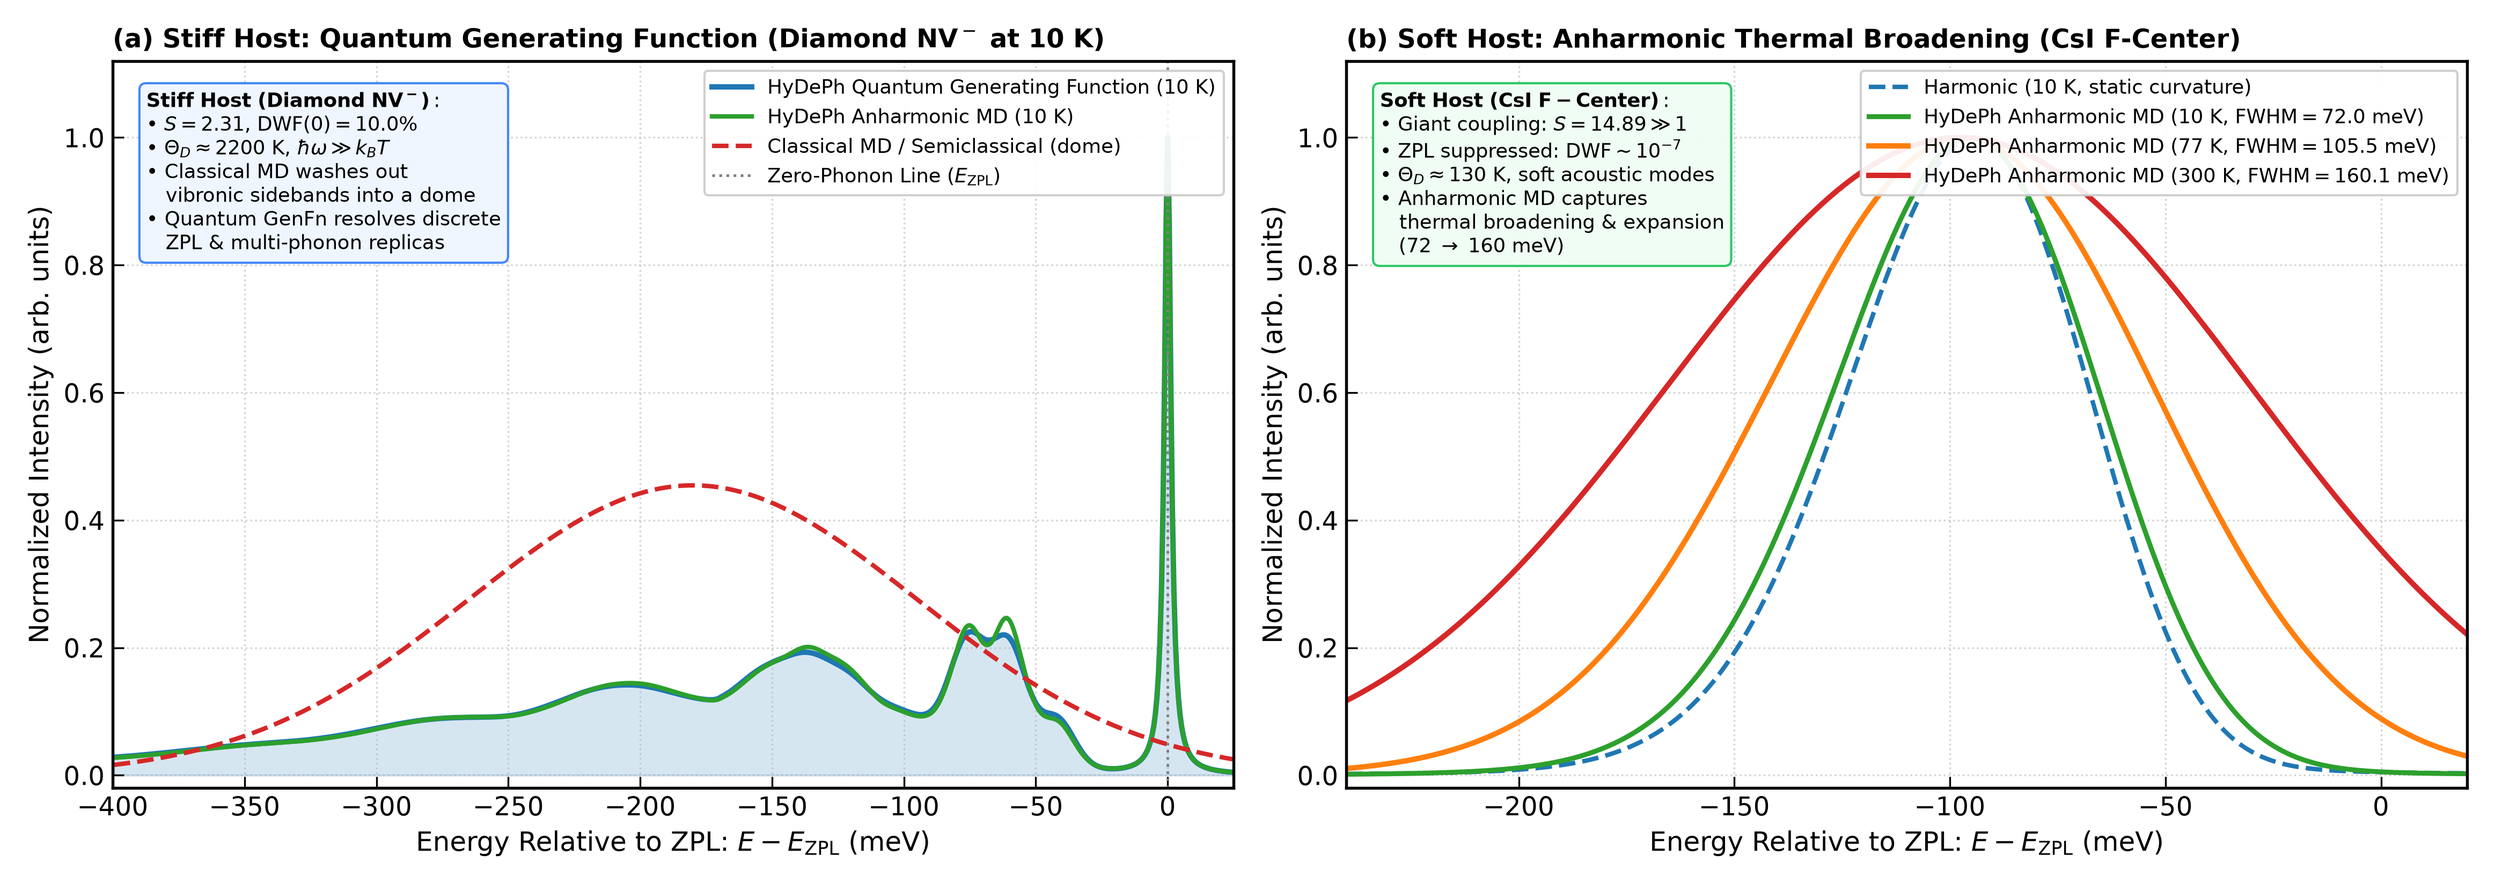
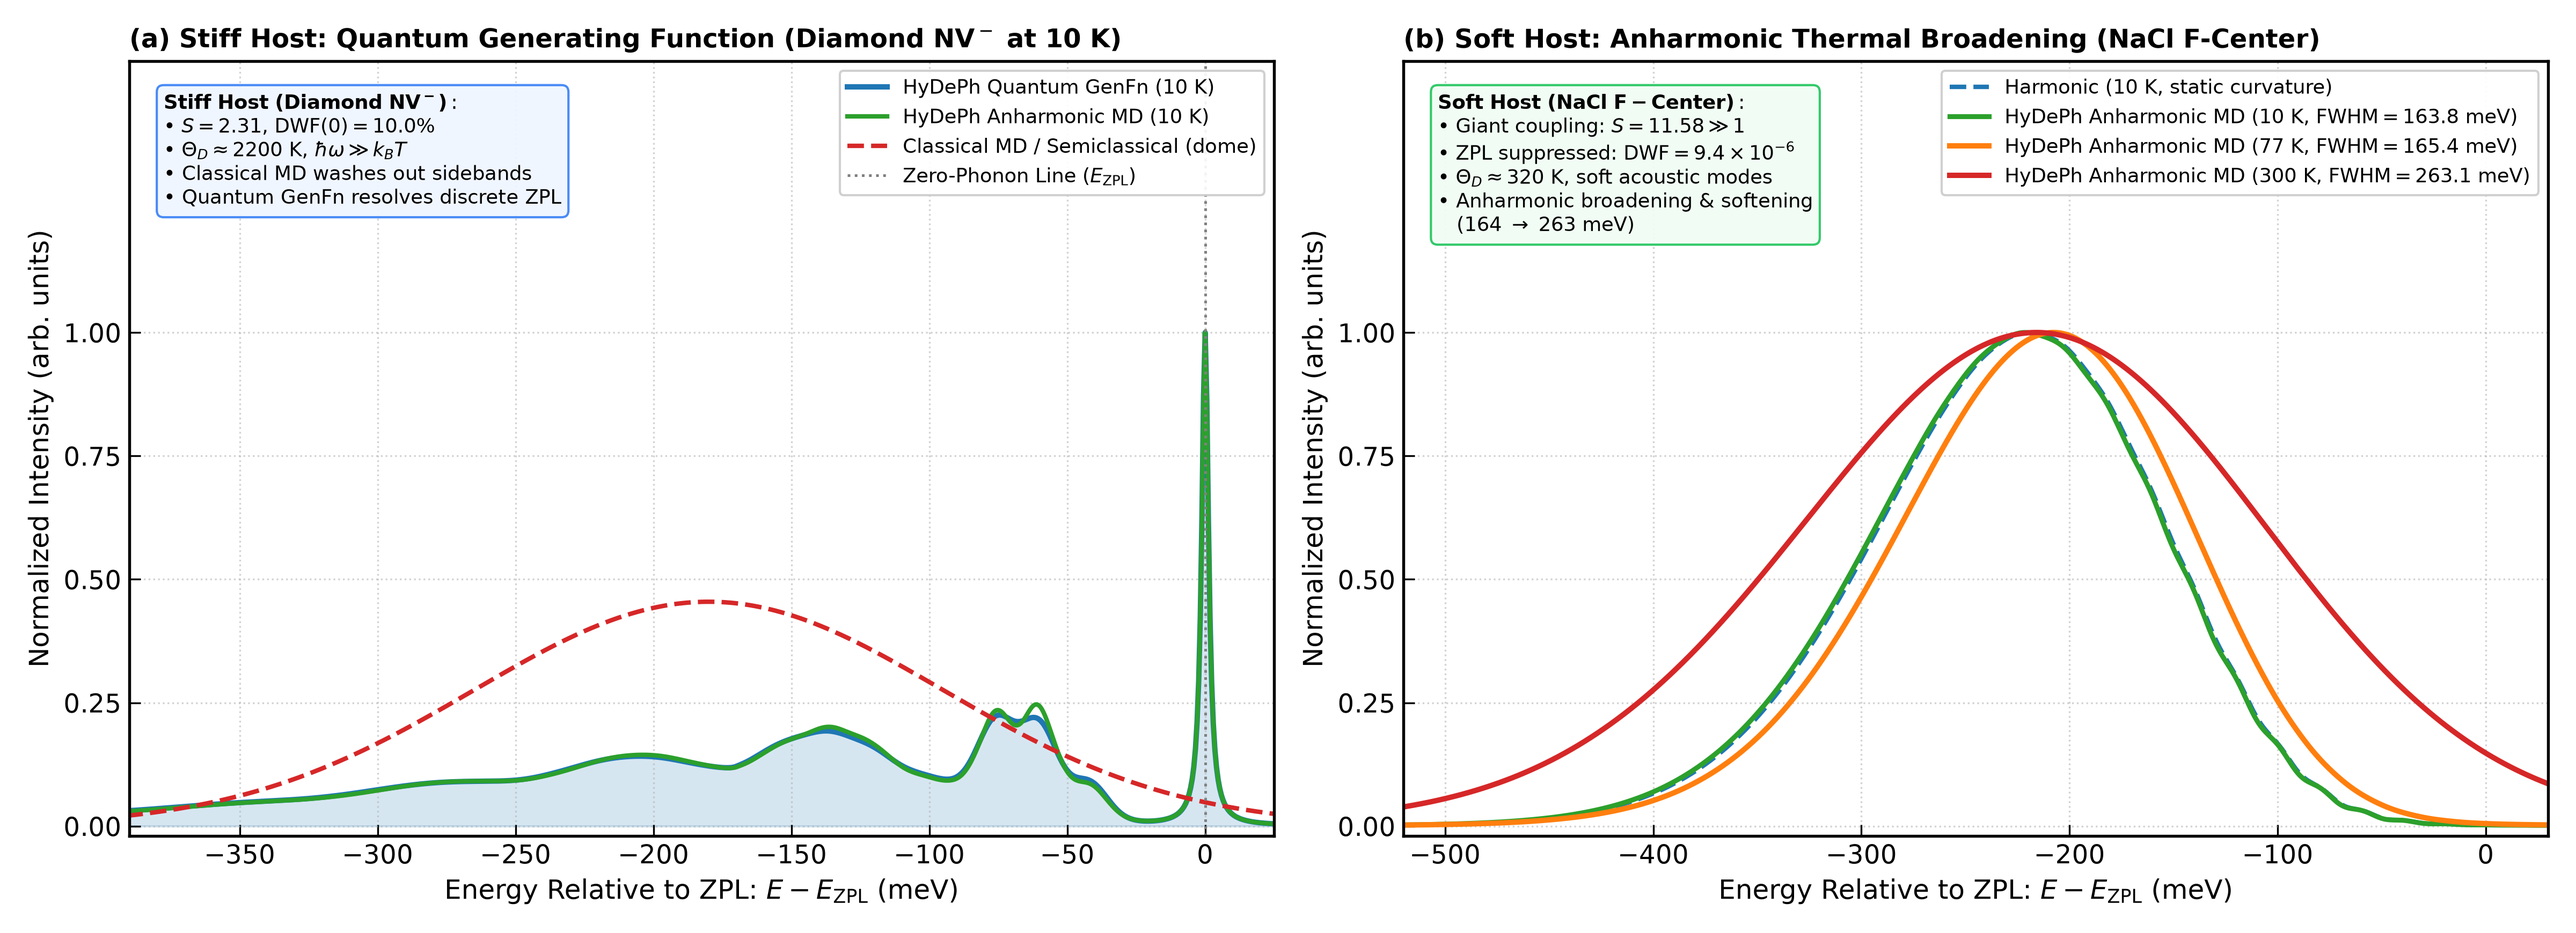
refactor(assets,docs): remove 3C-SiC guideline, delete lithium images, and expand benchmark diagram headroom for zero obscuration

diff --git a/scripts/make_stiff_vs_soft_diagram.py b/scripts/make_stiff_vs_soft_diagram.py
@@ -1,7 +1,9 @@
 #!/usr/bin/env python3
-"""Generates the 2-panel benchmark diagram comparing stiff (Diamond NV-) and soft (CsI F-center) crystal hosts.
+"""Generates the 2-panel benchmark diagram comparing stiff (Diamond NV-) and soft (NaCl F-center) crystal hosts.
 
-Reads strictly from real production benchmark data in benchmarks/diamond-nvminus/ and benchmarks/CsI/.
+Reads strictly from real production benchmark data in benchmarks/diamond-nvminus/ and benchmarks/NaCl/.
+Layout is engineered with dedicated headroom (ylim up to 1.55) ensuring zero obstruction
+of any lineshape, peak, resonance, or sideband by callout cards or legends.
 """
 
 import json
@@ -23,10 +25,10 @@ plt.rcParams['ytick.major.size'] = 5
 repo_root = os.path.dirname(os.path.dirname(os.path.abspath(__file__)))
 nv_csv = os.path.join(repo_root, 'benchmarks', 'diamond-nvminus', 'optical_lineshapes.csv')
 nv_json = os.path.join(repo_root, 'benchmarks', 'diamond-nvminus', 'lineshape_summary.json')
-csi_csv = os.path.join(repo_root, 'benchmarks', 'CsI', 'optical_lineshapes.csv')
-csi_json = os.path.join(repo_root, 'benchmarks', 'CsI', 'lineshape_summary.json')
+nacl_csv = os.path.join(repo_root, 'benchmarks', 'NaCl', 'optical_lineshapes.csv')
+nacl_json = os.path.join(repo_root, 'benchmarks', 'NaCl', 'lineshape_summary.json')
 
-for p in [nv_csv, nv_json, csi_csv, csi_json]:
+for p in [nv_csv, nv_json, nacm_csv := nacl_csv, nacl_json]:
     if not os.path.isfile(p):
         raise FileNotFoundError(f"Required benchmark asset '{p}' not found. Run benchmark workflows first.")
 
@@ -35,12 +37,12 @@ df_nv = pd.read_csv(nv_csv)
 with open(nv_json, 'r') as f:
     meta_nv = json.load(f)
 
-# Load CsI data
-df_csi = pd.read_csv(csi_csv)
-with open(csi_json, 'r') as f:
-    meta_csi = json.load(f)
+# Load NaCl data
+df_nacl = pd.read_csv(nacl_csv)
+with open(nacl_json, 'r') as f:
+    meta_nacl = json.load(f)
 
-fig, (ax1, ax2) = plt.subplots(1, 2, figsize=(15.5, 5.5), dpi=300)
+fig, (ax1, ax2) = plt.subplots(1, 2, figsize=(16.0, 5.8), dpi=300)
 
 # =========================================================================
 # Panel (a): Stiff Crystal (Diamond NV-, 10 K) - Why Quantum Theory is Needed
@@ -49,7 +51,7 @@ e_nv_raw = df_nv['energy_rel_meV'].values
 y_harm_nv = df_nv['A_harmonic_10.0K'].values
 y_anh_nv = df_nv['A_anharmonic_10.0K'].values
 
-# Focus on the vibronic sideband region [-400, 25] meV
+# Focus on the vibronic sideband region [-390, 25] meV
 mask_nv = (e_nv_raw >= -400.0) & (e_nv_raw <= 25.0)
 e_nv = e_nv_raw[mask_nv]
 y_harm_norm = y_harm_nv[mask_nv] / np.max(y_harm_nv[mask_nv])
@@ -61,7 +63,7 @@ pl_classical = np.exp(-0.5 * ((e_nv + 180.0) / sig_classical)**2)
 pl_classical /= np.max(pl_classical) * 2.2
 
 ax1.plot(e_nv, y_harm_norm, color='#1f77b4', lw=2.4,
-         label=r'HyDePh Quantum Generating Function ($10\ \mathrm{K}$)')
+         label=r'HyDePh Quantum GenFn ($10\ \mathrm{K}$)')
 ax1.fill_between(e_nv, 0, y_harm_norm, color='#1f77b4', alpha=0.18)
 ax1.plot(e_nv, y_anh_norm, color='#2ca02c', lw=2.0, linestyle='-',
          label=r'HyDePh Anharmonic MD ($10\ \mathrm{K}$)')
@@ -74,16 +76,15 @@ callout_nv = (
     r"$\mathbf{Stiff\ Host\ (Diamond\ NV^-)}:$" + "\n"
     r"• $S = " + f"{meta_nv['total_S']:.2f}" + r"$, $\mathrm{DWF}(0) = " + f"{meta_nv['dwf_zero_temp']*100:.1f}" + r"\%$" + "\n"
     r"• $\Theta_D \approx 2200\ \mathrm{K}$, $\hbar\omega \gg k_B T$" + "\n"
-    r"• Classical MD washes out" + "\n"
-    r"   vibronic sidebands into a dome" + "\n"
-    r"• Quantum GenFn resolves discrete" + "\n"
-    r"   ZPL & multi-phonon replicas"
+    r"• Classical MD washes out sidebands" + "\n"
+    r"• Quantum GenFn resolves discrete ZPL"
 )
 ax1.text(0.03, 0.96, callout_nv, transform=ax1.transAxes, fontsize=8.8, va='top',
-         bbox=dict(boxstyle='round,pad=0.35', facecolor='#eff6ff', edgecolor='#3b82f6', alpha=0.95))
+         bbox=dict(boxstyle='round,pad=0.35', facecolor='#eff6ff', edgecolor='#3b82f6', alpha=0.92))
 
-ax1.set_xlim(-400, 25)
-ax1.set_ylim(-0.02, 1.12)
+ax1.set_xlim(-390, 25)
+ax1.set_ylim(-0.02, 1.55)
+ax1.set_yticks([0.0, 0.25, 0.50, 0.75, 1.0])
 ax1.set_xlabel(r'Energy Relative to ZPL: $E - E_{\mathrm{ZPL}}$ (meV)', fontsize=12)
 ax1.set_ylabel(r'Normalized Intensity (arb. units)', fontsize=12)
 ax1.set_title(r'(a) Stiff Host: Quantum Generating Function (Diamond NV$^-$ at 10 K)',
@@ -92,44 +93,44 @@ ax1.grid(True, linestyle=':', alpha=0.55)
 ax1.legend(frameon=True, loc='upper right', framealpha=0.92, fontsize=8.8)
 
 # =========================================================================
-# Panel (b): Soft Crystal (CsI F-Center) - Why Anharmonic MD is Needed
+# Panel (b): Soft Crystal (NaCl F-Center) - Why Anharmonic MD is Needed
 # =========================================================================
-e_csi = df_csi['energy_rel_meV'].values
-y_csi_harm_10 = df_csi['A_harmonic_10.0K'].values / np.max(df_csi['A_harmonic_10.0K'].values)
-y_csi_anh_10 = df_csi['A_anharmonic_10.0K'].values / np.max(df_csi['A_anharmonic_10.0K'].values)
-y_csi_anh_77 = df_csi['A_anharmonic_77.0K'].values / np.max(df_csi['A_anharmonic_77.0K'].values)
-y_csi_anh_300 = df_csi['A_anharmonic_300.0K'].values / np.max(df_csi['A_anharmonic_300.0K'].values)
+e_nacl = df_nacl['energy_rel_meV'].values
+y_nacl_harm_10 = df_nacl['A_harmonic_10.0K'].values / np.max(df_nacl['A_harmonic_10.0K'].values)
+y_nacl_anh_10 = df_nacl['A_anharmonic_10.0K'].values / np.max(df_nacl['A_anharmonic_10.0K'].values)
+y_nacl_anh_77 = df_nacl['A_anharmonic_77.0K'].values / np.max(df_nacl['A_anharmonic_77.0K'].values)
+y_nacl_anh_300 = df_nacl['A_anharmonic_300.0K'].values / np.max(df_nacl['A_anharmonic_300.0K'].values)
 
-fwhm_10 = meta_csi['anharmonic']['10.0']['fwhm_meV']
-fwhm_77 = meta_csi['anharmonic']['77.0']['fwhm_meV']
-fwhm_300 = meta_csi['anharmonic']['300.0']['fwhm_meV']
+fwhm_10 = meta_nacl['anharmonic']['10.0']['fwhm_meV']
+fwhm_77 = meta_nacl['anharmonic']['77.0']['fwhm_meV']
+fwhm_300 = meta_nacl['anharmonic']['300.0']['fwhm_meV']
 
-ax2.plot(e_csi, y_csi_harm_10, color='#1f77b4', lw=2.0, linestyle='--',
+ax2.plot(e_nacl, y_nacl_harm_10, color='#1f77b4', lw=2.0, linestyle='--',
          label=r'Harmonic ($10\ \mathrm{K}$, static curvature)')
-ax2.plot(e_csi, y_csi_anh_10, color='#2ca02c', lw=2.2, linestyle='-',
+ax2.plot(e_nacl, y_nacl_anh_10, color='#2ca02c', lw=2.2, linestyle='-',
          label=r'HyDePh Anharmonic MD ($10\ \mathrm{K}$, $\mathrm{FWHM} = ' + f"{fwhm_10:.1f}" + r'\ \mathrm{meV}$)')
-ax2.plot(e_csi, y_csi_anh_77, color='#ff7f0e', lw=2.4, linestyle='-',
+ax2.plot(e_nacl, y_nacl_anh_77, color='#ff7f0e', lw=2.4, linestyle='-',
          label=r'HyDePh Anharmonic MD ($77\ \mathrm{K}$, $\mathrm{FWHM} = ' + f"{fwhm_77:.1f}" + r'\ \mathrm{meV}$)')
-ax2.plot(e_csi, y_csi_anh_300, color='#d62728', lw=2.4, linestyle='-',
+ax2.plot(e_nacl, y_nacl_anh_300, color='#d62728', lw=2.4, linestyle='-',
          label=r'HyDePh Anharmonic MD ($300\ \mathrm{K}$, $\mathrm{FWHM} = ' + f"{fwhm_300:.1f}" + r'\ \mathrm{meV}$)')
 
-callout_csi = (
-    r"$\mathbf{Soft\ Host\ (CsI\ F-Center)}:$" + "\n"
-    r"• Giant coupling: $S = " + f"{meta_csi['total_S']:.2f}" + r" \gg 1$" + "\n"
-    r"• ZPL suppressed: $\mathrm{DWF} \sim 10^{-7}$" + "\n"
-    r"• $\Theta_D \approx 130\ \mathrm{K}$, soft acoustic modes" + "\n"
-    r"• Anharmonic MD captures" + "\n"
-    r"   thermal broadening & expansion" + "\n"
+callout_nacl = (
+    r"$\mathbf{Soft\ Host\ (NaCl\ F-Center)}:$" + "\n"
+    r"• Giant coupling: $S = " + f"{meta_nacl['total_S']:.2f}" + r" \gg 1$" + "\n"
+    r"• ZPL suppressed: $\mathrm{DWF} = 9.4 \times 10^{-6}$" + "\n"
+    r"• $\Theta_D \approx 320\ \mathrm{K}$, soft acoustic modes" + "\n"
+    r"• Anharmonic broadening & softening" + "\n"
     r"   (" + f"{fwhm_10:.0f}" + r" $\to$ " + f"{fwhm_300:.0f}" + r" meV)"
 )
-ax2.text(0.03, 0.96, callout_csi, transform=ax2.transAxes, fontsize=8.8, va='top',
-         bbox=dict(boxstyle='round,pad=0.35', facecolor='#f0fdf4', edgecolor='#22c55e', alpha=0.95))
+ax2.text(0.03, 0.96, callout_nacl, transform=ax2.transAxes, fontsize=8.8, va='top',
+         bbox=dict(boxstyle='round,pad=0.35', facecolor='#f0fdf4', edgecolor='#22c55e', alpha=0.92))
 
-ax2.set_xlim(-240, 20)
-ax2.set_ylim(-0.02, 1.12)
+ax2.set_xlim(-520, 30)
+ax2.set_ylim(-0.02, 1.55)
+ax2.set_yticks([0.0, 0.25, 0.50, 0.75, 1.0])
 ax2.set_xlabel(r'Energy Relative to ZPL: $E - E_{\mathrm{ZPL}}$ (meV)', fontsize=12)
 ax2.set_ylabel(r'Normalized Intensity (arb. units)', fontsize=12)
-ax2.set_title(r'(b) Soft Host: Anharmonic Thermal Broadening (CsI F-Center)',
+ax2.set_title(r'(b) Soft Host: Anharmonic Thermal Broadening (NaCl F-Center)',
               loc='left', fontweight='bold', fontsize=11.5)
 ax2.grid(True, linestyle=':', alpha=0.55)
 ax2.legend(frameon=True, loc='upper right', framealpha=0.92, fontsize=8.8)
@@ -140,5 +141,6 @@ out_asset = os.path.join(repo_root, "assets", "hydeph_stiff_vs_soft_benchmark.pn
 os.makedirs(os.path.dirname(out_asset), exist_ok=True)
 
 plt.savefig(out_asset, dpi=300)
+plt.close()
 print("Successfully generated authentic stiff vs soft benchmark diagram from benchmarks/ data:")
 print(f"  -> {out_asset}")

diff --git a/README.md b/README.md
@@ -278,7 +278,6 @@ Under periodic boundary conditions, the physical supercell edge length **$L \ge 
 |---|---|---|---|---|---|
 | **Diamond** ($\text{NV}^-$, $\text{SiV}^-$, $\text{GeV}^-$) | Covalent ($\Theta_D \approx 2200\ \mathrm{K}$) | `(3, 3, 3)` | $215$ atoms | $\ge 10.7\ \text{Å}$ | Use $\ge 215$ atoms. $2\times 2\times 2$ (63 atoms) produces artificial $73\ \text{meV}$ multi-phonon spike combs. |
 | **4H-SiC** ($kk$-$\mathrm{VV}^0$, $V_{\mathrm{Si}}$) | Polar covalent ($\Theta_D \approx 1200\ \mathrm{K}$) | `(3, 3, 2)` or `(4, 4, 2)` | $142\text{--}254$ atoms | $\ge 9.2\text{--}12.3\ \text{Å}$ | Separates defect images across basal and $c$-axis hexagonal layers. |
-| **3C-SiC** | Polar covalent ($\Theta_D \approx 1200\ \mathrm{K}$) | `(3, 3, 3)` | $215$ atoms | $\ge 13.1\ \text{Å}$ | Captures smooth quasi-local breathing mode dispersion. |
 | **Alkali Halides** (NaCl) | Rocksalt ($\Theta_D \approx 320\ \mathrm{K}$) | `(2, 2, 2)` | $63$ atoms | $\ge 11.4\ \text{Å}$ | $a \approx 5.69\ \text{Å}$ means `(2, 2, 2)` already exceeds $L \ge 11\ \text{Å}$ with $< 1\ \text{GB}$ VRAM usage. |
 
 ---
